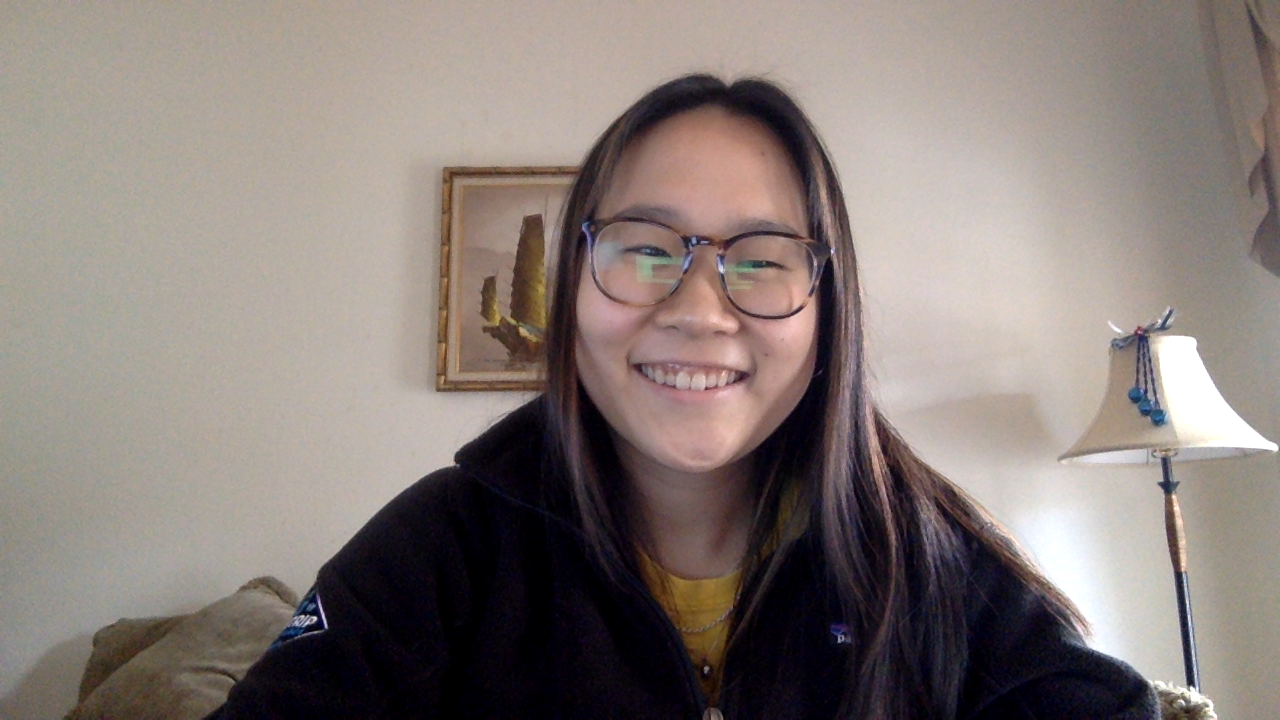
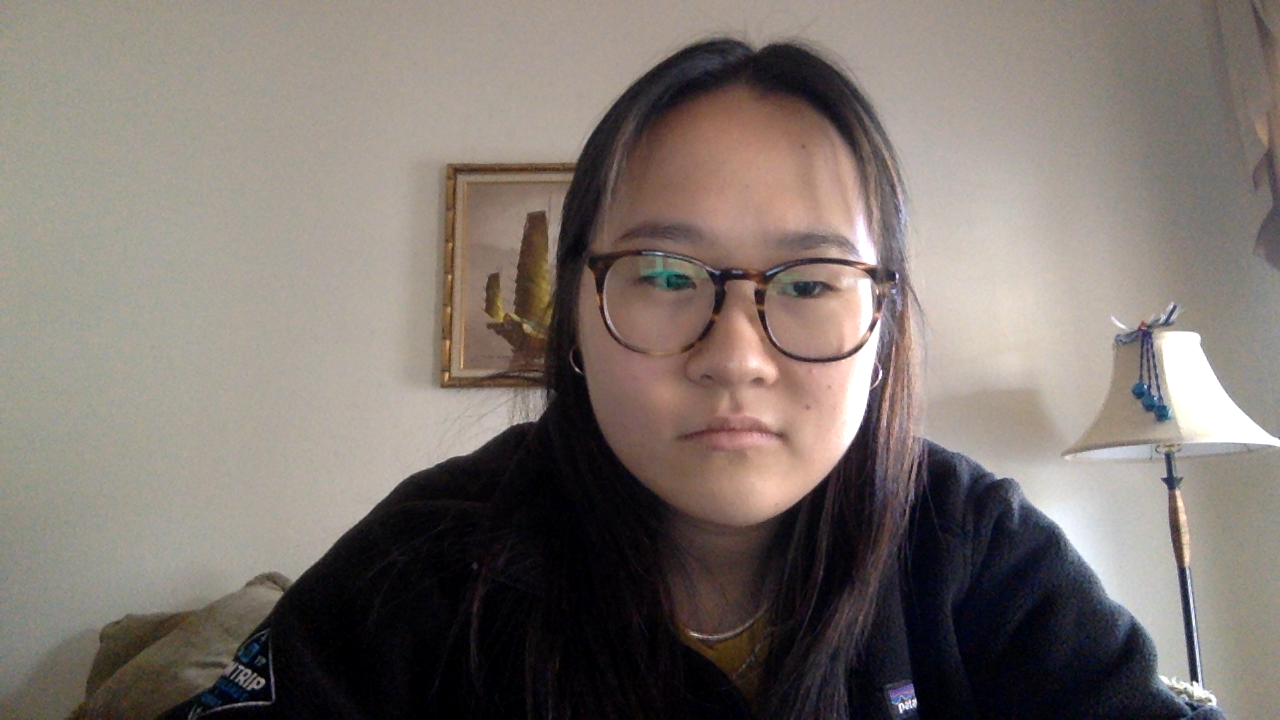
greyscale image

diff --git a/code/run.py b/code/run.py
@@ -72,7 +72,8 @@ def main():
   while True:
     frame = vs.read()
     frame = imutils.resize(frame, width=450)
-    cropped = crop_face(frame)
+    grey_frame = cv2.cvtColor(frame, cv2.COLOR_BGR2GRAY)
+    cropped = crop_face(grey_frame)
 
     if len(cropped) != 0:
       prediction = int(detect_smile(pca, model, cropped)[0])
@@ -81,7 +82,7 @@ def main():
       if prediction == 1:
         counter += 1
       
-      if counter >= 20:
+      if counter >= 10:
         frame = vs.read()
         # time.sleep(.3)
         frame2= frame.copy()
